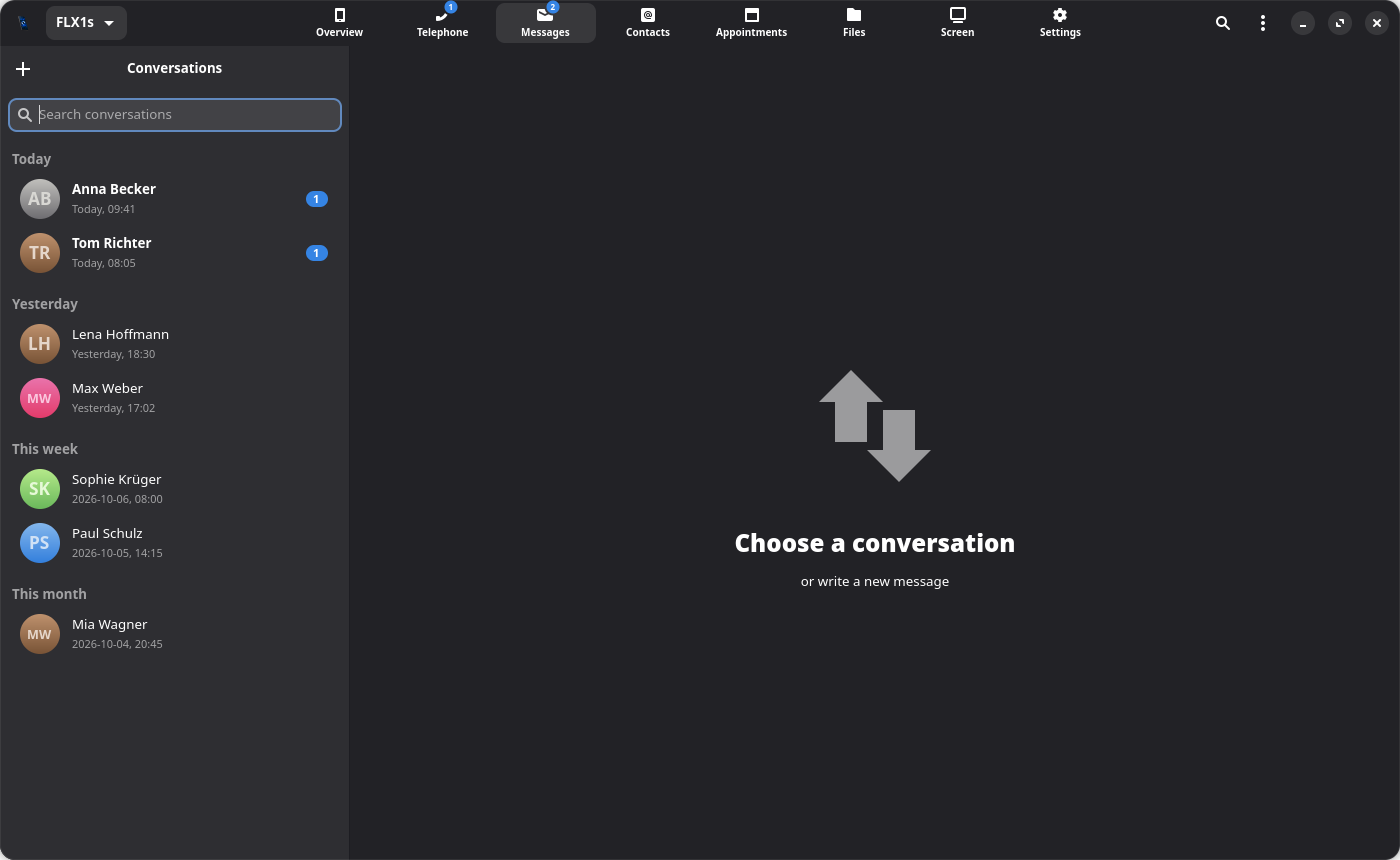
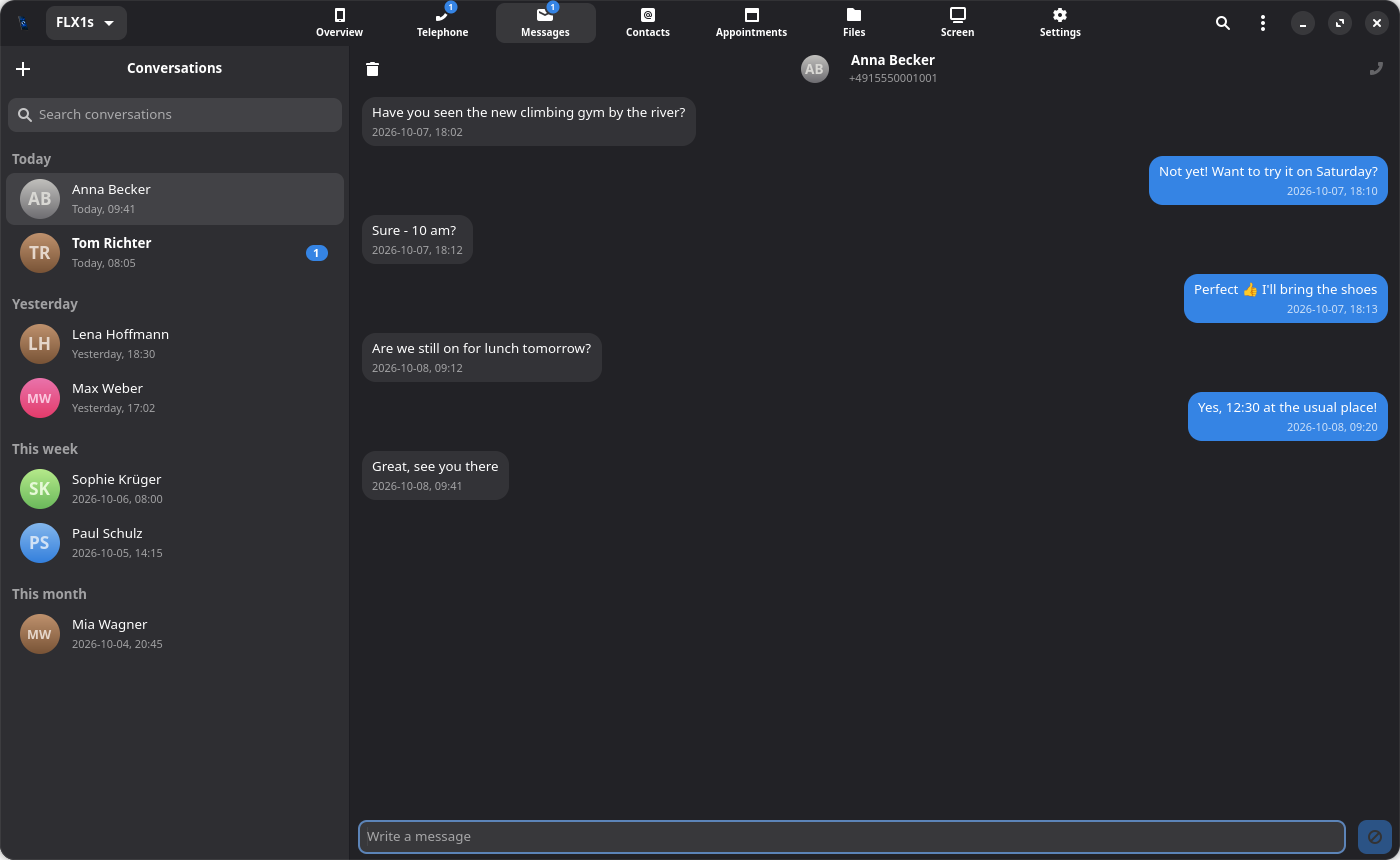
README: a conversation open in the messages screenshot
Anna's conversation, a few messages longer, open beside the list; the
contacts screenshot is taller, so her appointment fits under the longer
messages. All screenshots taken anew, so the unread counts agree.

tools/screenshot-demo.py: DEMO_THREAD opens a conversation; the "seen"
ids follow the longer conversation; the search fields and the message
being written are emptied before the picture - the window shows on this
desktop and took what was typed there meanwhile.

diff --git a/tools/screenshot-demo.py b/tools/screenshot-demo.py
@@ -21,7 +21,8 @@ DEMO_PAGE picks the page (overview, phone, messages, contacts, calendar,
 files, screen, settings); DEMO_WIDTH and DEMO_HEIGHT the window's size;
 DEMO_CONTACT a contact to open on the contacts page (with its calls,
 messages and appointments); DEMO_LINES=1 opens the choice of the line on
-the telephone page (two SIM cards and a SIP account, made up).
+the telephone page (two SIM cards and a SIP account, made up);
+DEMO_THREAD a conversation (its number) to open on the messages page.
 The files are a made-up home, never this PC's; the screen page shows the
 desktop session (sharing the screen would record this PC's here)."""
 
@@ -98,7 +99,12 @@ people = {"+4915550001001": "Anna Becker", "+4915550001002": "Tom Richter",
           "+4915550001003": "Lena Hoffmann", "+4915550001004": "Max Weber",
           "+4915550001005": "Sophie Krüger", "+4915550001006": "Paul Schulz",
           "+4915550001007": "Mia Wagner"}
-msgs = [("+4915550001001", "Are we still on for lunch tomorrow?", True, at(0, 9, 12)),
+msgs = [("+4915550001001", "Have you seen the new climbing gym by the river?", True,
+         at(-1, 18, 2)),
+        ("+4915550001001", "Not yet! Want to try it on Saturday?", False, at(-1, 18, 10)),
+        ("+4915550001001", "Sure - 10 am?", True, at(-1, 18, 12)),
+        ("+4915550001001", "Perfect 👍 I'll bring the shoes", False, at(-1, 18, 13)),
+        ("+4915550001001", "Are we still on for lunch tomorrow?", True, at(0, 9, 12)),
         ("+4915550001001", "Yes, 12:30 at the usual place!", False, at(0, 9, 20)),
         ("+4915550001001", "Great, see you there", True, at(0, 9, 41)),
         ("+4915550001002", "The package arrived, thanks!", True, at(0, 8, 5)),
@@ -206,12 +212,13 @@ for n, (number, name) in enumerate(sorted(people.items(), key=lambda p: p[1]), 1
         % (n, name, last, first, number, first.lower(), extra))
 
 config.CONFIG_DIR = os.environ["PHONEBRIDGE_CONFIG"]
-# two conversations unread (Anna, Tom), the others read
+# two conversations unread (Anna's last message, Tom), the others read - by
+# the messages' ids: Anna 1-7, Tom 8, Lena 9, Max 10, Sophie 11, Paul 12, Mia 13
 config.save(dict(config.DEFAULTS, language="en", devices=[
     {"id": "flx1s", "name": "FLX1s", "host": "phone", "user": "furios"}],
     screen={"quality": "normal", "mode": "desktop", "desktop_size": [1600, 900]},
-    seen={"flx1s": {"baseline": 2, "threads": {
-        "+4915550001004": 6, "+4915550001006": 8, "+4915550001007": 9}}}))
+    seen={"flx1s": {"baseline": 6, "threads": {
+        "+4915550001004": 10, "+4915550001006": 12, "+4915550001007": 13}}}))
 
 import phonebridge.tray as tray_mod  # noqa: E402
 from phonebridge.app import PhoneBridgeApp  # noqa: E402
@@ -277,9 +284,13 @@ def ready():
         app.window.overview.load(force=True)
     if os.environ.get("DEMO_CONTACT"):
         GLib.timeout_add(300, open_contact)
+    if os.environ.get("DEMO_THREAD"):
+        GLib.timeout_add(1000, lambda: app.window.messages.open_thread(
+            os.environ["DEMO_THREAD"]) and False)
     if os.environ.get("DEMO_LINES"):
         GLib.timeout_add(3000, lambda: app.window.phone.line_picker.activate() and False)
     if os.environ.get("DEMO_SHOT"):
+        GLib.timeout_add(3300, clear_typing)
         GLib.timeout_add(4000, shoot)
     return False
 
@@ -291,6 +302,16 @@ def open_contact():
     if not found:
         return True
     contacts.show_contact(found[0])
+    return False
+
+
+def clear_typing():
+    """The window shows on this desktop and may take what is typed there
+    meanwhile: the search fields and the message being written emptied."""
+    win = app.window
+    for entry in (win.messages.search, win.contacts.search, win.messages.entry):
+        if entry.get_text():
+            entry.set_text("")
     return False
 
 

diff --git a/README.md b/README.md
@@ -28,7 +28,7 @@ need the FLX1's call audio. On the PC it runs on any desktop and adapts to it (s
 
 | | |
 |:---:|:---:|
-| <a href="data/screenshots/phone.png"><img src="data/screenshots/phone.png" alt="Telephone: the line to call over chosen from two SIM cards and a SIP account, dial pad and recent calls with a voice message"></a><br>**Telephone** - the line to call over (SIM 1, SIM 2, SIP), dial pad and recent calls | <a href="data/screenshots/messages.png"><img src="data/screenshots/messages.png" alt="Messages: conversations by day, unread ones marked"></a><br>**Messages** - conversations, unread ones marked |
+| <a href="data/screenshots/phone.png"><img src="data/screenshots/phone.png" alt="Telephone: the line to call over chosen from two SIM cards and a SIP account, dial pad and recent calls with a voice message"></a><br>**Telephone** - the line to call over (SIM 1, SIM 2, SIP), dial pad and recent calls | <a href="data/screenshots/messages.png"><img src="data/screenshots/messages.png" alt="Messages: a conversation open beside the list of conversations, unread ones marked"></a><br>**Messages** - a conversation, the others by day |
 | <a href="data/screenshots/contacts.png"><img src="data/screenshots/contacts.png" alt="Contacts: a contact with its numbers and addresses, and its calls, messages and appointments"></a><br>**Contacts** - a contact with its calls, messages and appointments | <a href="data/screenshots/calendar.png"><img src="data/screenshots/calendar.png" alt="Appointments: month view and agenda"></a><br>**Appointments** - month and agenda |
 | <a href="data/screenshots/files.png"><img src="data/screenshots/files.png" alt="Files: the phone's home folder"></a><br>**Files** - the phone's home folder | <a href="data/screenshots/screen.png"><img src="data/screenshots/screen.png" alt="Screen: sharing the phone's screen, or a desktop session over RDP"></a><br>**Screen** - screen sharing or a desktop session |
 | <a href="data/screenshots/settings.png"><img src="data/screenshots/settings.png" alt="Settings: quick settings of the phone"></a><br>**Settings** - the phone's settings | |
